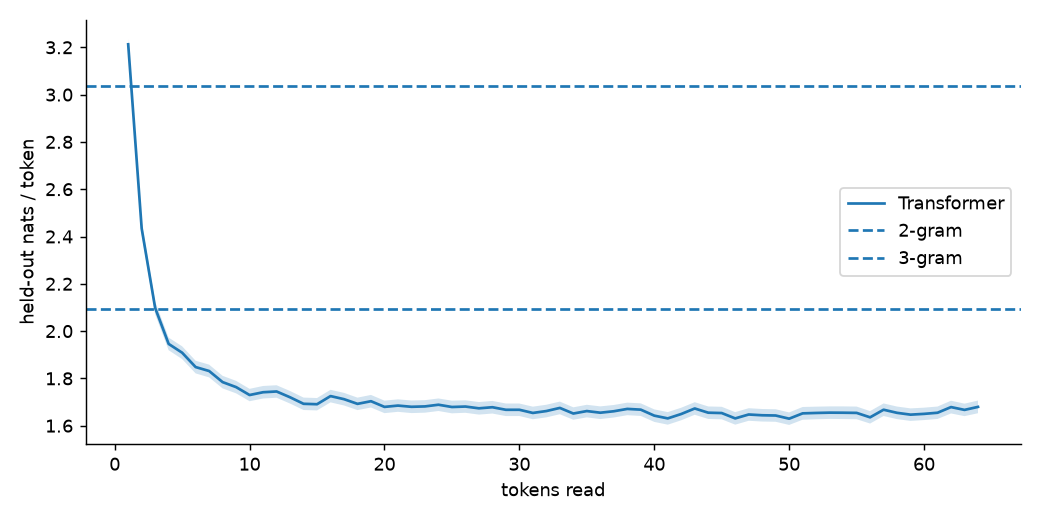
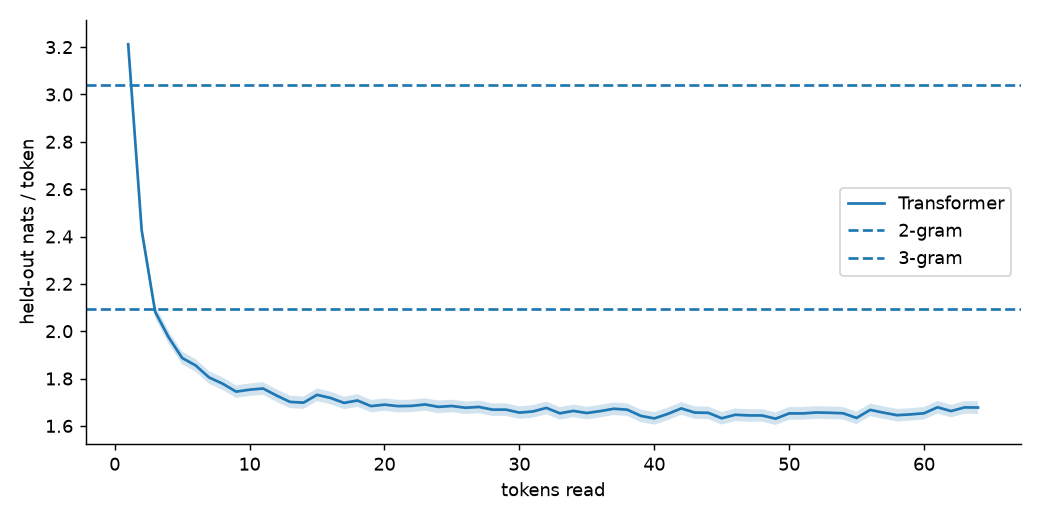
week8: align transformer evaluation with consecutive token windows

diff --git a/week8/scripts/neural.py b/week8/scripts/neural.py
@@ -64,10 +64,10 @@ def train(kind):
   settings['accuracy_by_distance']={str(d):float(correct[dist==d].mean()) for d in range(1,5)}; settings['test_sequences']=20000; settings['example_tokens']=x[0]; settings['example_target']=int(y[0]); settings['example_weights']=np.asarray(a[0])
   plt.figure(figsize=(9,4)); ax=plt.subplot(121); ax.plot(range(1,5),list(settings['accuracy_by_distance'].values()),'o-'); ax.axhline(.95,ls=':',color='gray'); ax.set(xlabel='query-memory distance',ylabel='accuracy',ylim=(0,1.05)); ax=plt.subplot(122); im=ax.imshow(a[0],vmin=0,vmax=1); plt.colorbar(im,ax=ax); ax.set(xlabel='read position',ylabel='output position'); fig('recall')
  else:
-  val=data['val']; inp=np.concatenate([[meta['eos']],val]); losses=[]; evaluate=jax.jit(lambda p,x,y:optax.softmax_cross_entropy_with_integer_labels(transformer(p,x),y))
-  for begin in range(0,len(val),4096):
-   starts=np.arange(begin,min(begin+4096,len(val)),64); x=inp[np.minimum(starts[:,None]+np.arange(64),len(inp)-1)]; y=inp[np.minimum(starts[:,None]+np.arange(1,65),len(inp)-1)]; losses.append(np.asarray(evaluate(p,x,y)))
-  matrix=np.concatenate(losses); flat=matrix.ravel()[:len(val)]; settings['nats']=float(flat.mean()); settings['bpc']=float(flat.sum()/np.log(2)/meta['val']['characters']); settings['position_loss']=matrix[:-1].mean(0); settings['position_se']=matrix[:-1].std(0,ddof=1)/np.sqrt(len(matrix)-1); np.save(ART/'transformer_validation.npy',flat)
+  val=data['val']; inp=val; target_count=len(val)-1; losses=[]; evaluate=jax.jit(lambda p,x,y:optax.softmax_cross_entropy_with_integer_labels(transformer(p,x),y))
+  for begin in range(0,target_count,4096):
+   starts=np.arange(begin,min(begin+4096,target_count),64); x=inp[np.minimum(starts[:,None]+np.arange(64),len(inp)-1)]; y=inp[np.minimum(starts[:,None]+np.arange(1,65),len(inp)-1)]; losses.append(np.asarray(evaluate(p,x,y)))
+  matrix=np.concatenate(losses); flat=matrix.ravel()[:target_count]; settings['nats']=float(flat.mean()); settings['bpc']=float(flat.sum()/np.log(2)/meta['val']['characters']); settings['evaluation']='Consecutive 64-input-token windows, starting at the first held-out token; predict the following tokens. Initial token unscored; padded targets excluded.'; settings['scored_tokens']=target_count; complete=matrix[:target_count//64]; settings['position_loss']=complete.mean(0); settings['position_se']=complete.std(0,ddof=1)/np.sqrt(len(complete)); np.save(ART/'transformer_validation.npy',flat)
  save(kind,settings); print(settings,flush=True)
  plt.figure(figsize=(6,4)); h=np.array(history); plt.plot(h[:,0],h[:,1]); plt.xlabel('step'); plt.ylabel('training cross-entropy'); fig(kind+'_training')
 def load(kind):
